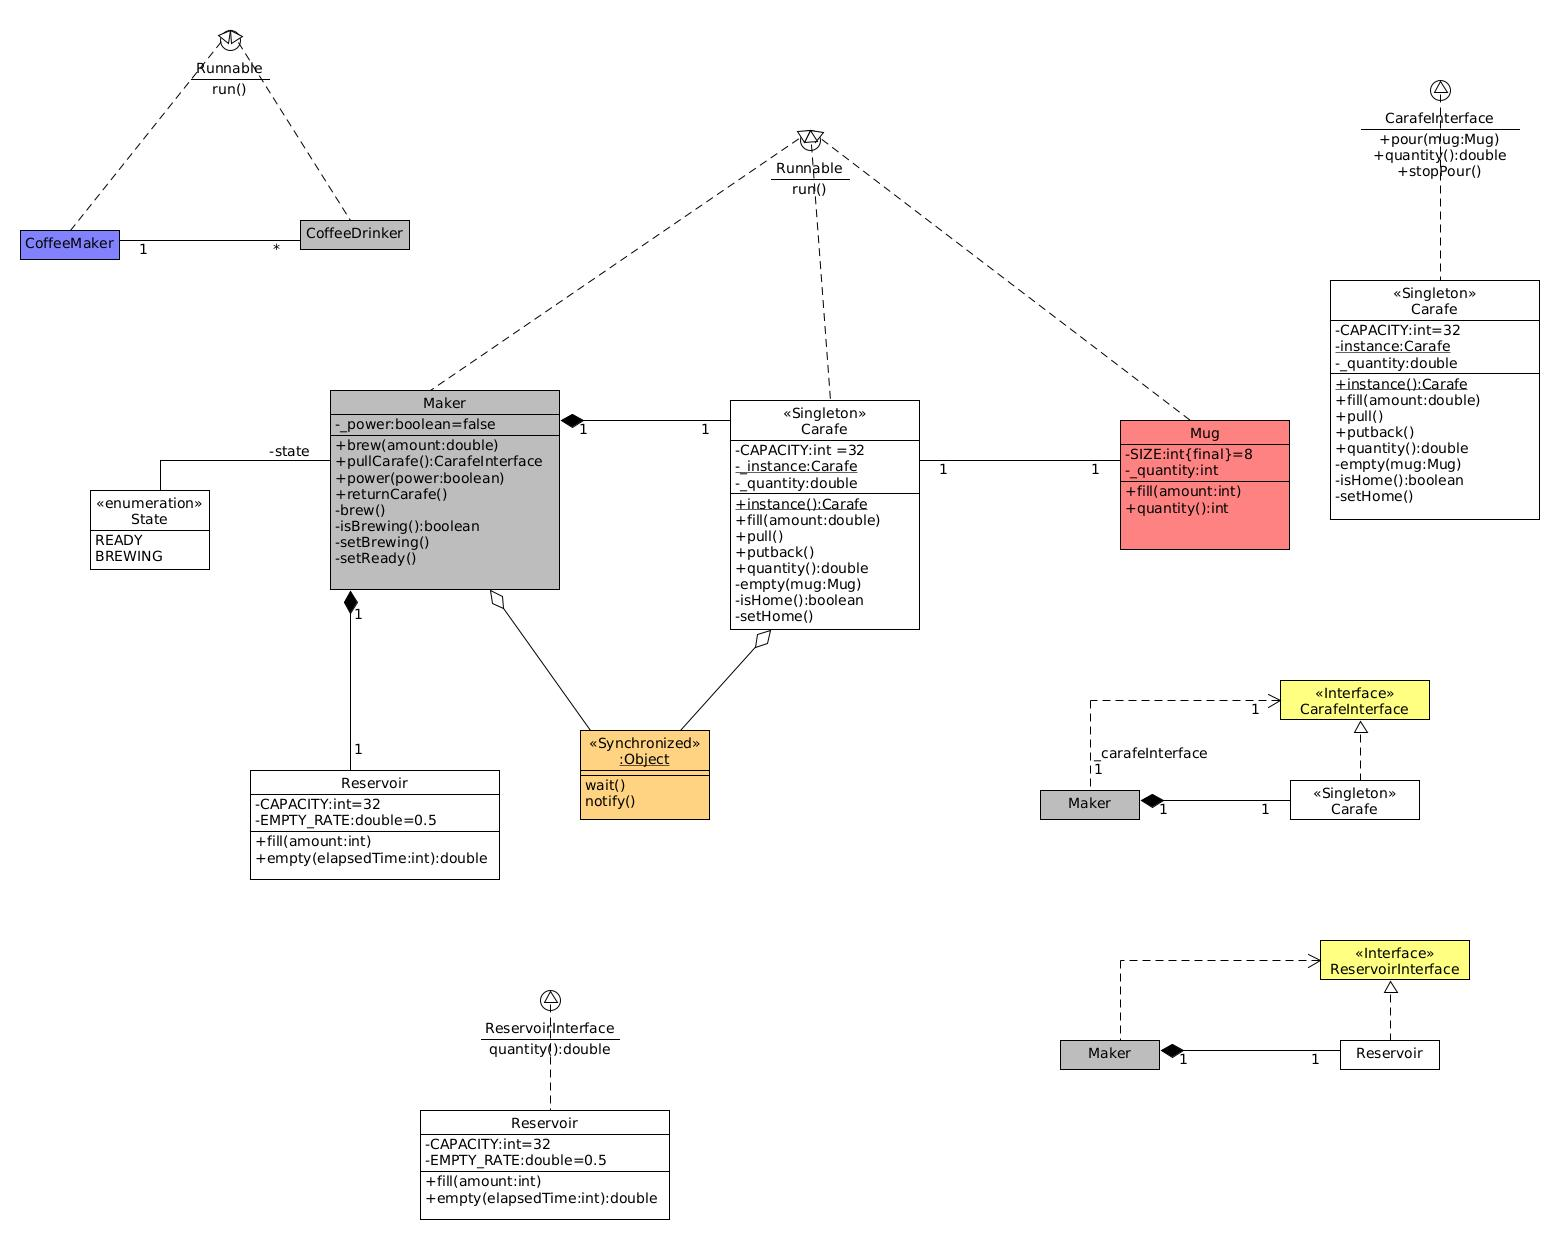
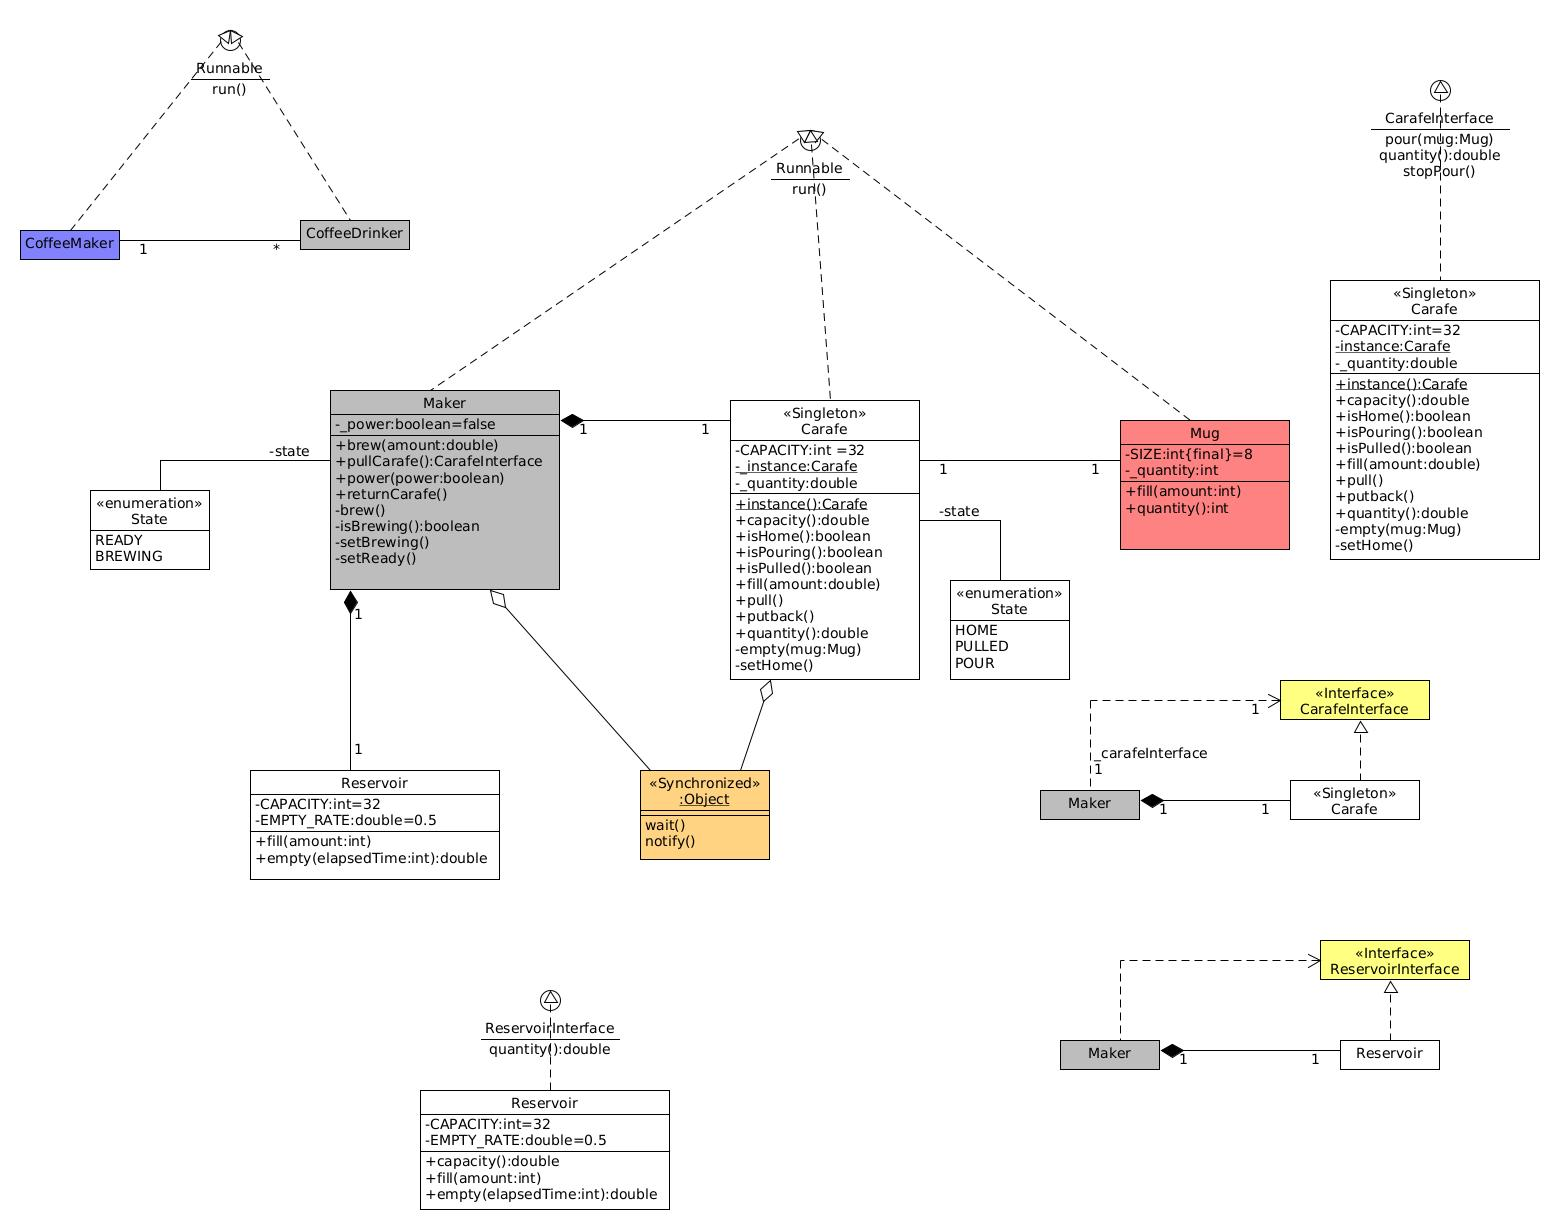
05-28-23-00

diff --git a/Carafe.java b/Carafe.java
@@ -42,6 +42,13 @@ public class Carafe implements Runnable, CarafeInterface{
    //
    //
    //
+   public double capacity(){
+      return this.CAPACITY;
+   }
+
+   //
+   //
+   //
    static public Carafe instance(){
       if(_instance == null){
          _instance = new Carafe();
@@ -114,8 +121,6 @@ public class Carafe implements Runnable, CarafeInterface{
    //
    private Carafe(){
       this._t = new Thread(this);
-      //Somehow, will need to end this thread upon "power down" of
-      //the Coffee Maker
       this._t.start();
    }
 

diff --git a/CoffeeMakerView.java b/CoffeeMakerView.java
@@ -74,6 +74,13 @@ implements Subscriber{
       JPanel panel = new JPanel();
       panel.setLayout(new BorderLayout());
       panel.setBorder(BorderFactory.createEtchedBorder());
+      //Set up the North Part
+      JPanel northPanel = new JPanel();
+      northPanel.setBorder(BorderFactory.createEtchedBorder());
+      JLabel northLabel = new JLabel("Carafe",SwingConstants.CENTER);
+      northPanel.add(northLabel);
+      panel.add(northPanel,  BorderLayout.NORTH);
+      /////
       return panel;
    }
 

diff --git a/Reservoir.java b/Reservoir.java
@@ -24,6 +24,12 @@ public class Reservoir implements ReservoirInterface{
    public Reservoir(){}
 
    //////////////////////////Public Methods///////////////////////////
+   /*
+   */
+   public double capacity(){
+      return this.CAPACITY;
+   }
+
    //
    //Fill up to a certain amount
    //

diff --git a/Maker.java b/Maker.java
@@ -56,7 +56,9 @@ public class Maker implements Runnable{
          this._subscribers.add(subscriber);
       }
       finally{
+         //Notify the Subscribers of all the State information
          this.notify(new String("State: " + this._state));
+
       }
    }
    
